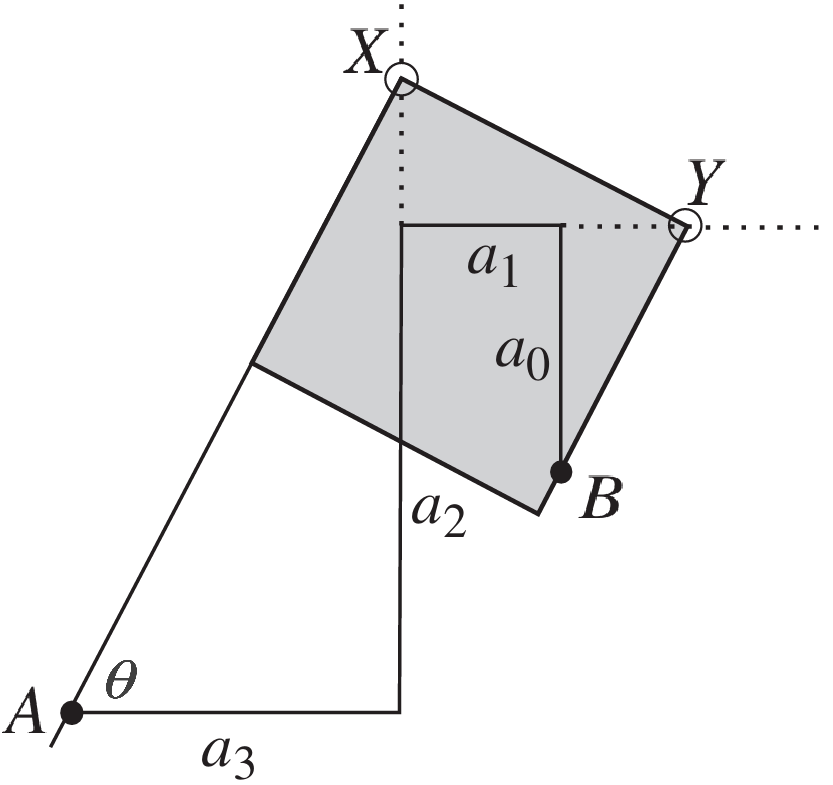
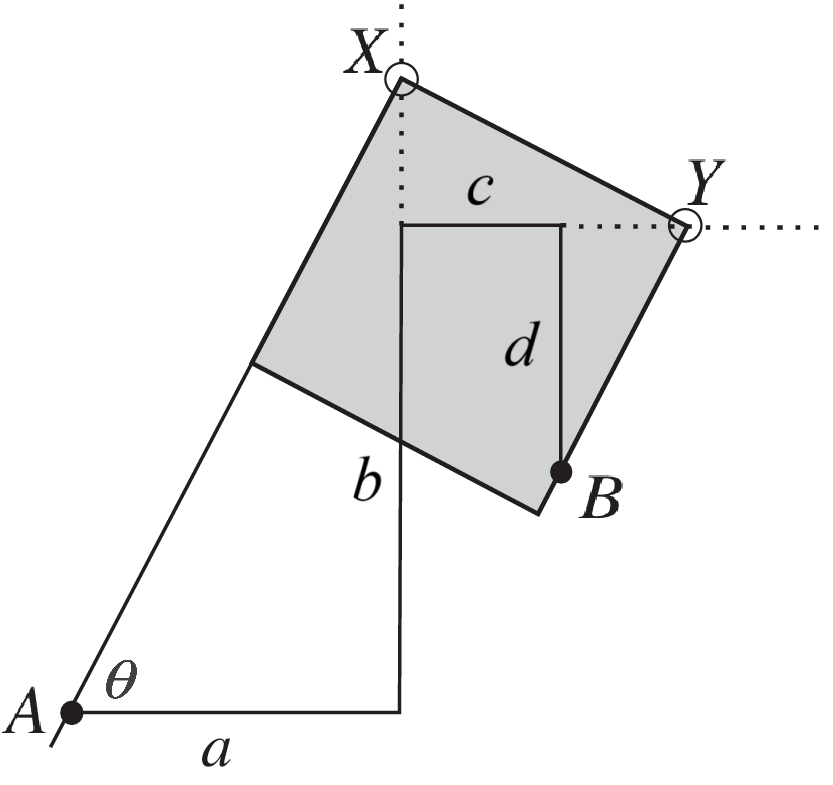
popravki pri lillovi metodi z belochinim kvadratom

diff --git a/vsebina/enacbe.tex b/vsebina/enacbe.tex
@@ -73,7 +73,7 @@ Obe koordinati sta racionalni, torej je točka $B$ konstruktibilna točka. Ker l
 
 \textbf{Primer:} Poiščimo rešitve enačbe $x^2 - x - 1 = 0$. Določimo obe točki in premico: $A(\frac{1}{2}, -1)$, $B(\frac{1}{2}, -\frac{5}{2})$ in $a: y = -\frac{3}{2}.$. Opravimo operacijo~\ref{op:O6} in označimo presečišče abscisne osi in pravokotnice nanjo skozi sliko točke $A$. Če smo bili pri pregibanju natančni, dobimo presečišči pri $x_{1,2} = \frac{1 \pm \sqrt{5}}{2}$ (gl.\ sliko v~\cite[str.\ 37]{hull2020}).
 
-To še zdaleč ni edini postopek za reševanje kvadratne enačbe. Kot še en lep primer Hull v\~cite[str.\ 38]{hull2020} navaja Lillovo metodo, dokaz pa prepušča bralcu. Ta metoda je tudi zgled, kako lahko najprej najdemo evklidsko konstrukcijo rešitev kvadratne enačbe in jo nato preobrazimo v origami konstrukcijo -- saj že vemo, da lahko s prepogibanjem papirja konstruiramo vse in še več, kar se da z evklidskim orodjem.
+To še zdaleč ni edini postopek za reševanje kvadratne enačbe. Kot še en lep primer Hull v~\cite[str.\ 38]{hull2020} navaja Lillovo metodo, dokaz pa je prepuščen bralcu. Ta metoda je tudi zgled, kako lahko najprej najdemo evklidsko konstrukcijo rešitev kvadratne enačbe in jo nato preobrazimo v origami konstrukcijo -- saj že vemo, da lahko s prepogibanjem papirja konstruiramo vse in še več, kar se da z evklidskim orodjem.
 
 \subsection{Kubična enačba}
 
@@ -81,11 +81,21 @@ Rešujemo enačbo oblike
 $$ a x^3 + b x^2 + c x + d = 0, $$
 kjer so $a, b, c, d \in \Q$ in velja $a \neq 0$.
 
-Operacija~\ref{op:O6} nam je preko konstrukcije tangente na parabolo pomagala rešiti kvadratno enačbo. Spomnimo se, da je Belocheva to v 30-ih letih prejšnjega stoletja nadgradila z operacijo~\ref{op:O7}, ki nam konstruira skupno tangento na dve paraboli hkrati. Po njej jo tudi imenujemo \emph{Belochin pregib}. Z njim je kot prva odkrila resnično moč origami konstrukcij, a je žal trajalo več kot pol stoletja, da so matematiki začeli ceniti njeno odkritje. Le redki so njeno delo poznali in ji tudi pripisali avtorstvo.
+Operacija~\ref{op:O6} nam je preko konstrukcije tangente na parabolo pomagala rešiti kvadratno enačbo. Spomnimo se, da je Belocheva to v 30-ih letih prejšnjega stoletja nadgradila z operacijo~\ref{op:O7}, ki nam konstruira skupno tangento na dve paraboli hkrati. Po njej jo tudi imenujemo \emph{Belochin pregib}. Z njim je kot prva odkrila resnično moč origami konstrukcij, a je žal trajalo več kot pol stoletja, da so matematiki začeli ceniti njeno odkritje.
 
-Belocheva je s svojim pregibom oblikovala postopek, s katerim lahko preko origamija rešujemo kubične enačbe. Postopek temelji na Lillovi genialni metodi iskanja ničel poljubnih polinomov z realnimi koeficienti, ki si jo bomo v naslednjem razdelku podrobneje pogledali.
+Spoznali bomo dva postopka, ki nam z uporabo Belochinega pregiba rešita kubično enačbo. Najprej bomo pogledali bolj znano metodo, ki jo je odkrila Belocheva sama, nato pa še en podoben, a tudi enostavnejši postopek. Pri obeh postopkih nam Belochin pregib poda eno od rešitev kubične enačbe. Vsaka izmed rešitev kubične enačbe nam da drugačen pregib in ker so rešitve največ tri, so tudi pregibi oz.\ skupne tangente na dve paraboli največ tri. S postopkoma tako v resnici dokažemo naslednjo trditev.
 
-\subsubsection{Lillova metoda}
+\begin{trditev}
+    Število realnih rešitev kubične enačbe je enako številu Belochinih pregibov v postopkih, ki sta navedena v tem poglavju.
+\end{trditev}
+
+\textcolor{red}{če ima alperin (zadnji razdelek na koncu tega poglavja) še kakšen postopek, popravi to trditev.}
+
+\subsubsection{Reševanje enačbe preko Lillove metode}
+
+Belocheva je s svojim pregibom oblikovala postopek, s katerim lahko preko origamija rešujemo kubične enačbe. Postopek temelji na Lillovi genialni metodi iskanja ničel poljubnih polinomov z realnimi koeficienti, ki si jo bomo v naslednjem razdelku podrobneje pogledali, za njeno aplikacijo pa uporabi avtorsko konstrukcijo -- Belochin kvadrat. \textcolor{red}{zaenkrat je tukaj še splošna kubična enačba, ampak a je mogoče treba predpostavit, da noben koeficient ni ničeln?}
+
+\subsubsection*{Lillova metoda}
 
 Njen avtor je avstrijski inženir Eduard Lill, ki jo je l.\ 1867 opisal v svojem članku~\cite{lill1867}. Gre za inovativen postopek, ki je v svoji osnovi čisto enostaven. Imejmo poljuben polinom $ p(x) = a_n x^n + a_{n-1} x^{n-1} + \ldots + a_2 x^2 + a_1 x + a_0 $ z realnimi koeficienti in iščemo njegove realne ničle, če obstajajo. Lill je iz njegovih koeficientov s sledečim postopkom v ravnini ustvaril enolično pot. Običajno se za njeno konstrukcijo uporablja figuro želve, ki nam kaže, v katero smer se premika pa tudi kam je usmerjena.
 
@@ -113,24 +123,25 @@ ecimo, da smo zmogli zadeti želvo. Kot, ki ga v točki $O$ oklepata laserski ž
 \begin{dokaz}
     Vzemimo primer, ko so vsi koeficienti polinoma $p(x)$ pozitivni. Želvina pot je v tem primeru sestavljena iz $n+1$ daljic, pot laserskega žarka (ki se vedno odbije od daljice in ne njene nosilke) pa iz $n$ daljic. Slednje so ravno hipotenuze pravokotnih trikotnikov. Za vsako od njih je nasprotna kateta kota $\theta$ del daljice $a_i$, priležno kateto pa označimo z $y_i$ ($ n \geq i \geq 1$). dobimo
     \begin{align*}
-        y_n &= \tan \theta \cdot a_n = - x a_n \\
-        y_{n-1} &= \tan \theta \cdot (a_{n-1} - y_n) = - x (a_{n-1} + x a_n) = - (a_{n-1} x + a_n x^2)\\
-        y_{n-2} &= \tan \theta \cdot (a_{n-2} - y_{n-1}) = - x (a_{n-2} + a_{n-1} x + a_n x^2) = - (a_{n-2} x + a_{n-1} x^2 + a_n x^3) \\
+        y_n &= \tan \theta \cdot a_n = - x_{\theta} a_n \\
+        y_{n-1} &= \tan \theta \cdot (a_{n-1} - y_n) = - x_{\theta} (a_{n-1} + x a_n) = - (a_{n-1} x_{\theta} + a_n x_{\theta}^2)\\
+        y_{n-2} &= \tan \theta \cdot (a_{n-2} - y_{n-1}) = - x_{\theta} (a_{n-2} + a_{n-1} x_{\theta} + a_n x_{\theta}^2) = \\
+        &= - (a_{n-2} x_{\theta} + a_{n-1} x_{\theta}^2 + a_n x_{\theta}^3) \\
         &\vdots \\
-        y_1 &= - (a_1 x + a_2 x^2 + \ldots + a_{n-1} x^{n-1} + a_n x^n).
+        y_1 &= - (a_1 x_{\theta} + a_2 x_{\theta}^2 + \ldots + a_{n-1} x_{\theta}^{n-1} + a_n x_{\theta}^n).
     \end{align*}
-    V zadnji enakosti desno stran premaknimo na levo in upoštevamo $y_1 = a_0$. Dobimo ravno $p(x) = 0$, torej je $x = - \tan \theta$ res ničla tega polinoma.
+    V zadnji enakosti desno stran premaknimo na levo in upoštevamo $y_1 = a_0$. Dobimo ravno $p(x_{\theta}) = 0$, torej je $x_{\theta} = - \tan \theta$ res ničla tega polinoma.
 
-    Primer negativnih koeficientov:~\cite[str.\ 36]{zore2022}.
+    \textcolor{red}{Primer negativnih koeficientov:~\cite[str.\ 36]{zore2022}.}
 
-    Primer ničelnih koeficientov: isto kot prej, samo se spusti $y_i$ za tisti $i$, za katerega je $a_i = 0$. (\textcolor{red}{???})
+    \textcolor{red}{Primer ničelnih koeficientov: isto kot prej, samo se spusti $y_i$ za tisti $i$, za katerega je $a_i = 0$. (\textcolor{red}{???})}
 \end{dokaz}
 
 Če pod nobenim kotom $\theta$ ne moremo zadeti želve, je polinom $p(x)$ brez realnih ničel.
 
 Pojavi se nam vprašanje, kako določiti kot $\theta$. Za polinom tretje stopnje je Belocheva preko svojega pregiba našla zelo preprosto rešitev, ki si jo bomo sedaj pogledali.
 
-\subsubsection{Belochin kvadrat}
+\subsubsection*{Belochin kvadrat}
 
 Imejmo dani točki $A$ in $B$ ter premici $r$ in $s$. Z origamijem konstruirajmo kvadrat $WXYZ$, kjer oglišče $X$ leži na premici $r$, njegovo sosednje oglišče $Y$ pa na premici $s$. Velja še, da točka $A$ leži na stranici $WX$ (ali njeni nosilki), točka $B$ pa na stranici $ZY$ (ali njeni nosilki, slika~\ref{fig:beloch_kvadrat}).
 
@@ -175,11 +186,11 @@ $$ |OX|^3 = |OX| \cdot \frac{|OY|}{|OX|} \cdot \frac{2}{|OY|} = 2 \Longrightarro
 
 Vidimo lahko, da je to enaka konstrukcija kot jo je 50 let kasneje neodvisno od Belocheve odkril G.\ Martin (razdelek~\ref{podpogl:podvojitev_kocke}), le da je za točko $B$ vzel točko $(0, -k)$ in s tem konstruiral dolžino $\sqrt[3]{k}$ za poljuben origami-konstruktibilen $k$.
 
-\subsubsection{Reševanje enačbe po Lillovi metodi z Belochinim pregibom}
+\subsubsection*{Združitev Lillove metode in Belochinega kvadrata}
 
-Za poljubno enačbo $a_3 x^3 + a_2 x^2 + a_1 x + a_0 = 0$ (\textcolor{red}{a daš koeficiente a, b, c, d? in da $A \neq 0$ Potem je treba tut na slikci spremenit.}) povežimo sedaj Lillovo metodo s primerno konstrukcijo Belochinega kvadrata, ki nam bo natančno določil kot $\theta$. Najprej konstruiramo želvino pot za polinom $p(x) = a_3 x^3 + a_2 x^2 + a_1 x + a_0$. V primeru neničelnih koeficientov je pot sestavljena iz štirih stranic, pot laserskega žarka pa iz treh.
+Za poljubno enačbo $a x^3 + b x^2 + c x + d = 0$, kjer $ a \neq 0$, povežimo sedaj Lillovo metodo s konstrukcijo primernega Belochinega kvadrata, ki nam bo natančno določil kot $\theta$. Najprej konstruiramo želvino pot za polinom $p(x) = a x^3 + b x^2 + c x + d$. V primeru neničelnih koeficientov je pot sestavljena iz štirih stranic, pot laserskega žarka pa iz treh.
 
-Za točko $A$ vzemimo izhodišče $O$, za točko $B$ pa končno točko $T$. Premica $r$ naj bo nosilka daljice $a_2$, premica $s$ pa nosilka daljice $a_1$. Ko si določimo premici $r'$ in $s'$ ter opravimo Belochin pregib, dobimo, kot običajno, na njegovih presečiščih s premicama $r$ in $s$ točki $X$ in $Y$. Ker velja $ AX \perp XY \perp BY $, je to iskana pot laserskega žarka, ki se odbija pod pravim kotom in zadene želvo. Kot $theta$ je kot, ki ga oklepata daljici $a_3$ in $AX$ (slika~\ref{fig:beloch_kubicna_resitev}).
+Za točko $A$ vzemimo izhodišče $O$, za točko $B$ pa končno točko $T$. Premica $r$ naj bo nosilka daljice $b$, premica $s$ pa nosilka daljice $c$. Ko si določimo premici $r'$ in $s'$ ter opravimo Belochin pregib, dobimo, kot običajno, na njegovih presečiščih s premicama $r$ in $s$ točki $X$ in $Y$. Zarišemo daljice $AX$, $XY$ in $YB$. Ker po konstrukciji velja $ AX \perp XY \perp YB $, je to iskana pot laserskega žarka, ki se odbija pod pravim kotom in zadene želvo. Kot $\theta$ je kot, ki ga oklepata daljici $a_3$ in $AX$ (slika~\ref{fig:beloch_kubicna_resitev}). Rešitev je torej $x_{\theta} = - \tan \theta$. Če ima enačba še eno ali dve realni rešitve, sta možna še en ali dva Belochina pregiba.
 
 \begin{figure}[h]
     \centering
@@ -188,13 +199,19 @@ Za točko $A$ vzemimo izhodišče $O$, za točko $B$ pa končno točko $T$. Prem
     \label{fig:beloch_kubicna_resitev}
 \end{figure}
 
-Ker imata dve paraboli največ tri skupne tangente, obstajajo največ trije prepogibi, ki točki $A$ in $B$ zaporedoma položijo na premici $r'$ in $s'$. Kolikor je možnih pregibov, toliko realnih rešitev ima naša enačba.
-
 \opomba{V resnici nikoli do sedaj nismo potrebovali konstruirati celega kvadrata; potrebovali smo le stranico $XY$ in dejstvo, da je pregib pravokoten na daljici $AX$ in $BY$.}
 
 \textcolor{red}{Kaj je v primeru, ko je kakšen koeficient ničeln?}
 
 \textcolor{red}{Daj kakšen primer. Eden s samimi pozitivnimi koeficienti, eden z negativnim in ničelnim?}
+
+\subsubsection{Reševanje enačbe preko koeficienta tangente na paraboli}
+
+Poglejmo še en način reševanja.
+
+
+
+Koeficient $t$ ene skupne tangente na parabolo je torej rešitev kubične enačbe $x^3 + b x^2 + c x + d = 0$, ki pa ima največ tri realne rešitve. Vsaka izmed njih je koeficient neke tangente na parabolo, vemo pa že, da je tangenta z danim koeficientom in parabolo natanko določena \textcolor{red}{(preveri, a je ta odstavek res red)}. Torej lahko reševanje kubičnih enačb enačimo z iskanjem skupnih tangent na dve paraboli.
 
 \subsubsection{Alperinova rešitev}
 
